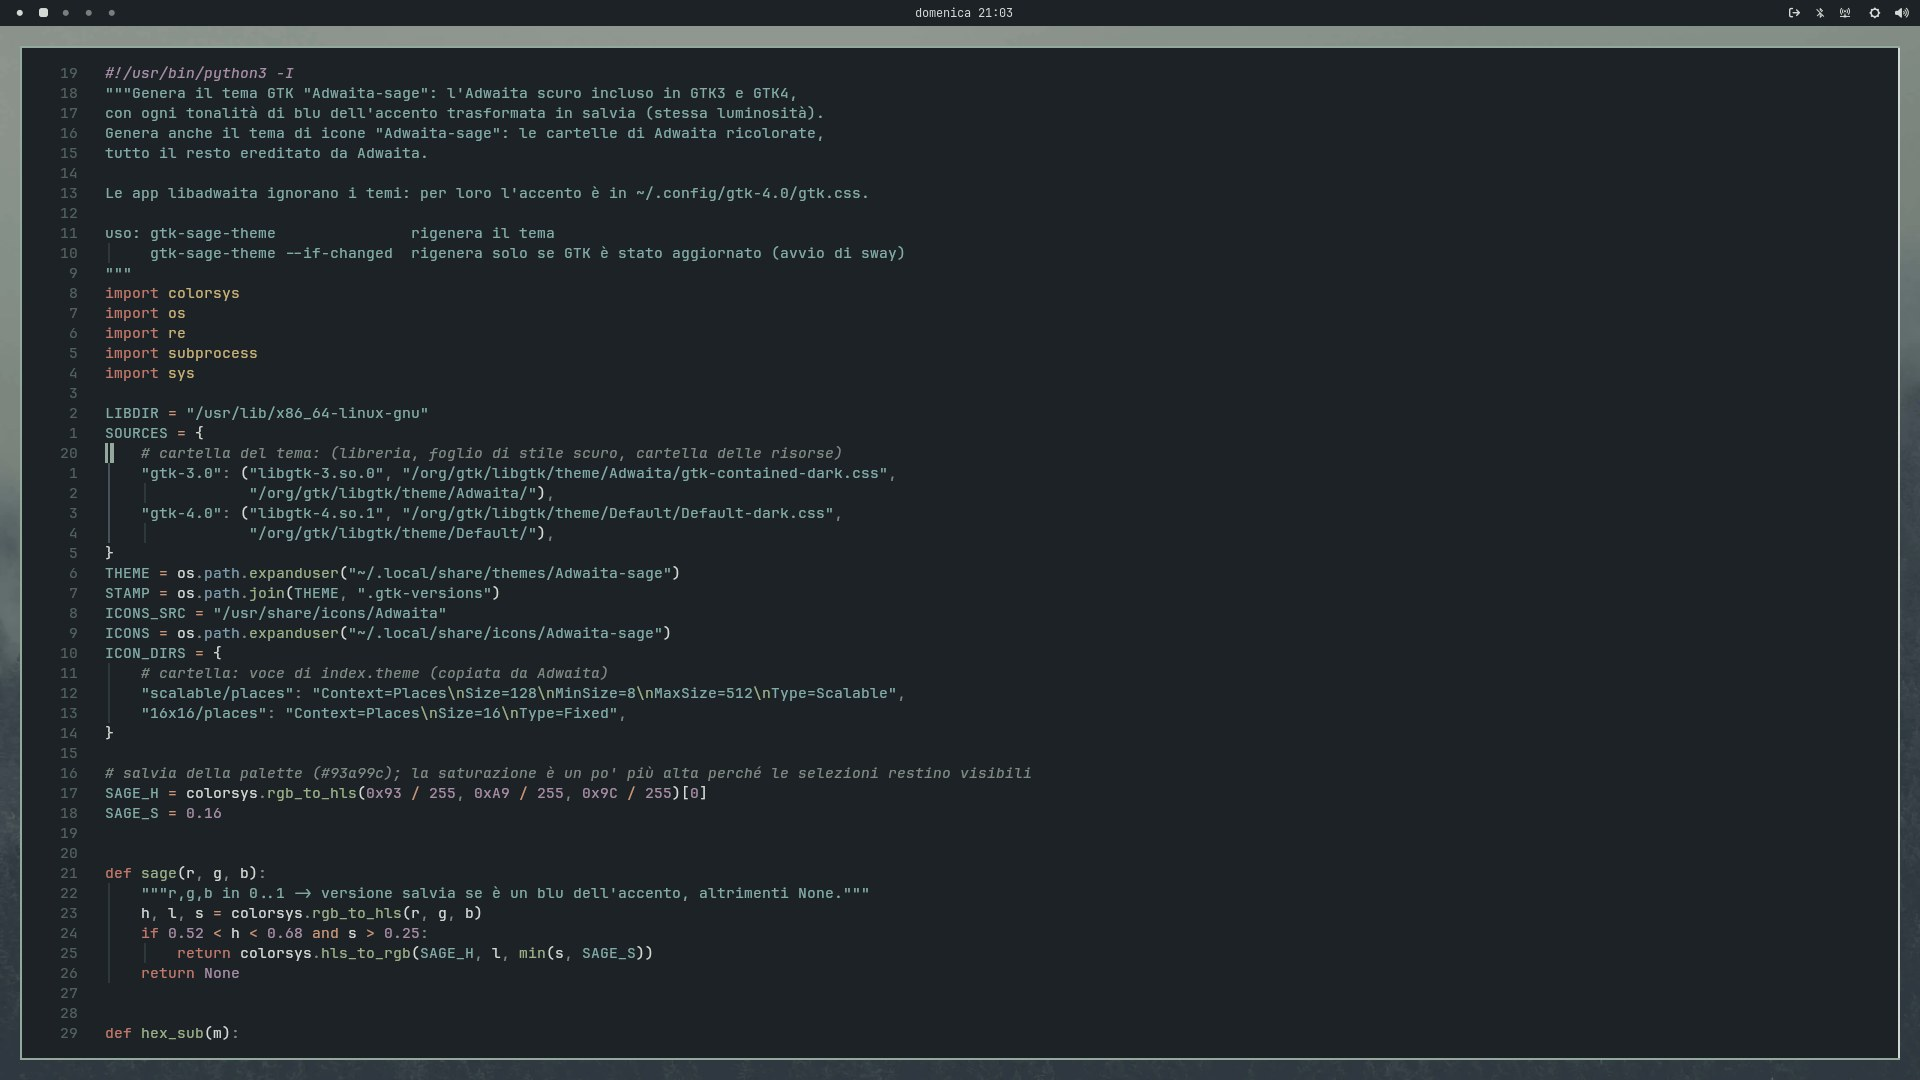
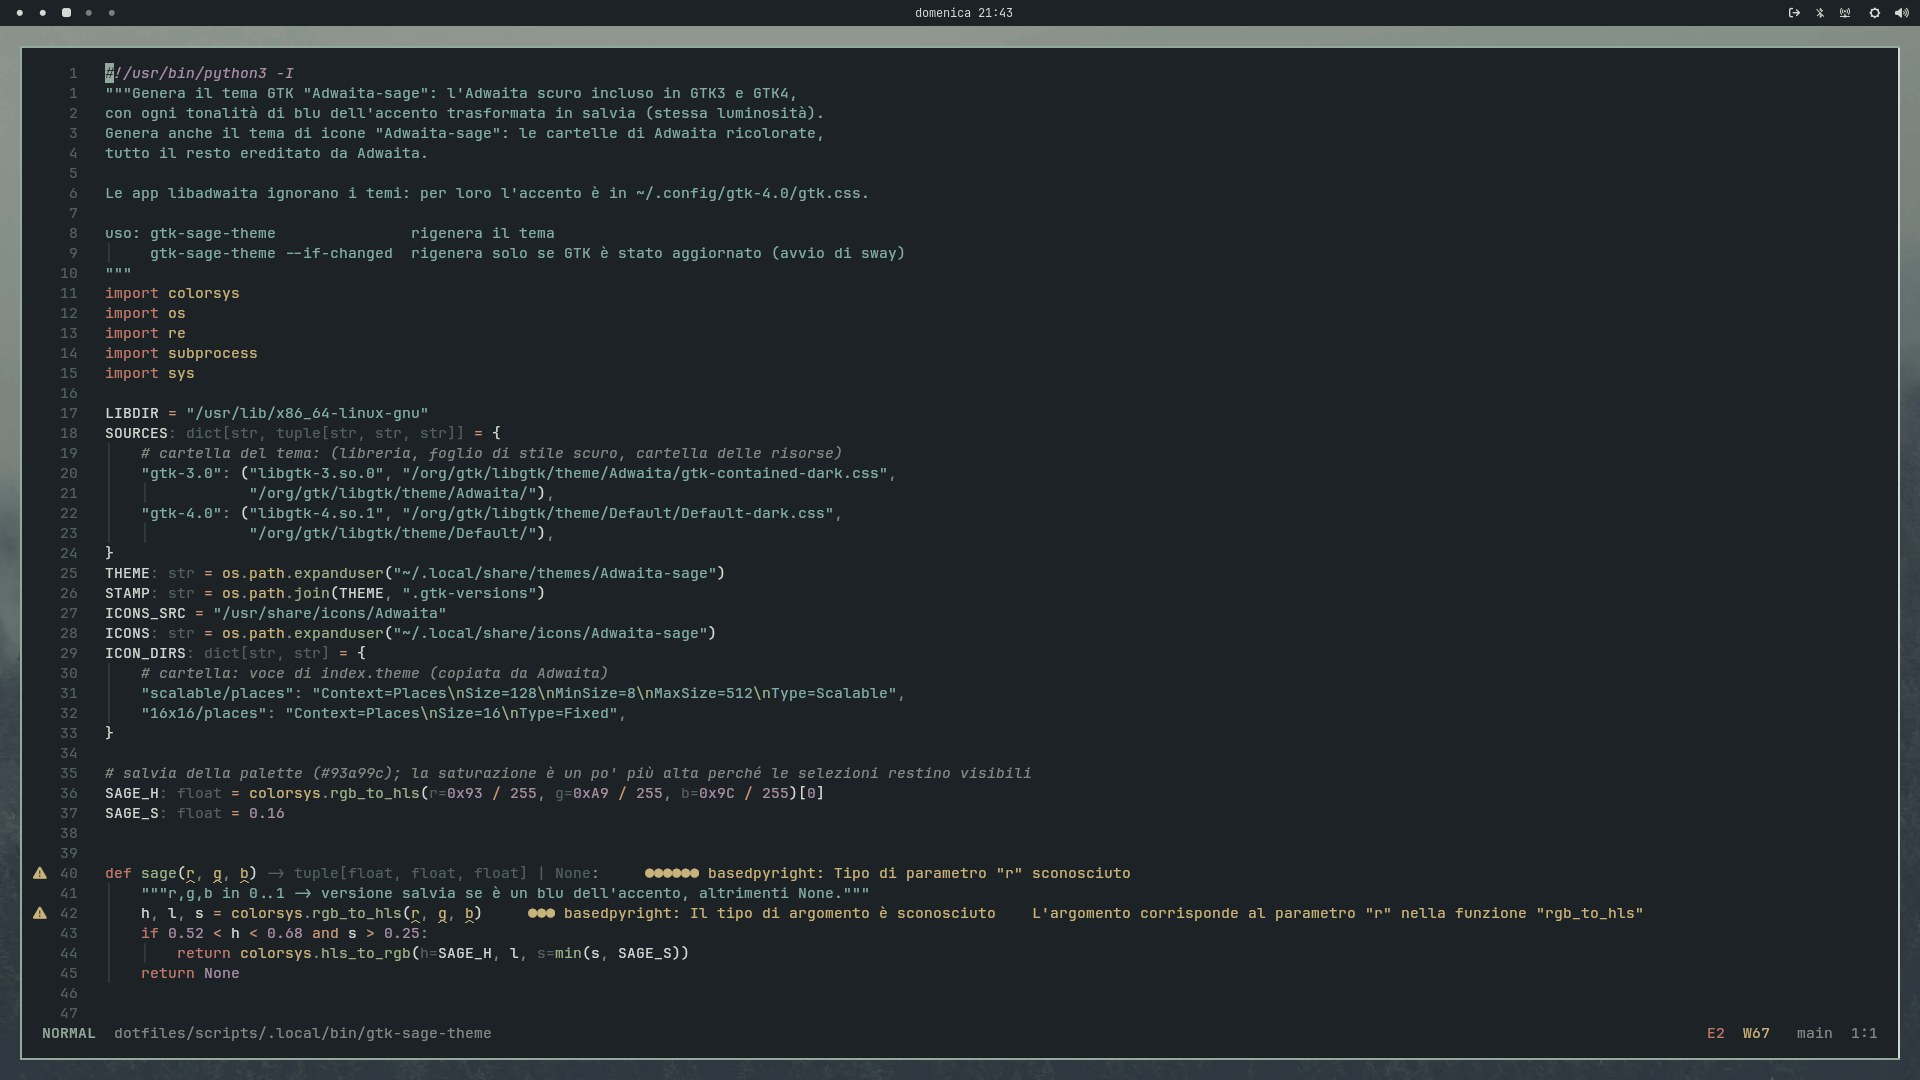
README: new nvim screenshot, missing shortcuts, up-to-date nvim notes

diff --git a/README.md b/README.md
@@ -16,7 +16,7 @@ Everforest theme.
 | | |
 |---|---|
 | ![Neovim](screenshots/nvim.jpg) | ![Firefox with the Misty Forest theme](screenshots/firefox.jpg) |
-| Neovim (LazyVim) with the recoloured Everforest theme | Firefox with the Misty Forest theme |
+| Neovim (LazyVim): recoloured Everforest theme and minimal statusline | Firefox with the Misty Forest theme |
 
 ## Components
 
@@ -90,10 +90,14 @@ To add a package: create `name/.config/name/...`, move the file there and run
 | `$mod+1…0` | switch workspace |
 | `$mod+r` | resize mode |
 | Volume knob | volume |
+| Mute key | mute |
 | `Ctrl` + volume knob | monitor brightness |
 | `$mod+Shift+u/d` | monitor brightness |
 | `$mod+Ctrl+u/d` | monitor contrast |
-| `Print` / `Shift+Print` | full screenshot / area screenshot to clipboard |
+| `$mod+Ctrl+m` | turn the monitor off / on |
+| Media keys | play/pause, next, previous (`playerctl`) |
+| `Print` | full screenshot, saved to `~/Pictures` (the XDG pictures folder) |
+| `Shift+Print` | area screenshot, copied to the clipboard |
 | `$mod+Shift+p` | suspend |
 | `$mod+Shift+e` | log out |
 
@@ -110,9 +114,11 @@ To add a package: create `name/.config/name/...`, move the file there and run
 - **Firefox theme**: to change it, edit `firefox/misty-forest/manifest.json`, bump `version` and
   upload the folder as a zip to [addons.mozilla.org](https://addons.mozilla.org/developers/) as an
   unlisted add-on to get a new signed `.xpi`. With Firefox Sync the active theme is synced too.
-- **Neovim**: plugins and the Mason tools (LSP servers, formatters, `tree-sitter`) are installed on the
-  first start of `nvim`. The config was imported from
-  [alexmarchi28/nvim](https://github.com/alexmarchi28/nvim) with its history.
+- **Neovim**: plugins and the Mason tools (LSP servers, formatters, debuggers, `tree-sitter`) are
+  installed on the first start of `nvim`; `lazy-lock.json` pins the plugin versions, so commit it
+  after `:Lazy update`. The Go debugger (`delve`) comes from apt. `<leader>sk` searches all the
+  shortcuts. The config was imported from [alexmarchi28/nvim](https://github.com/alexmarchi28/nvim)
+  with its history.
 - **Settings outside of files**: dark style, GTK theme and icon theme are `gsettings` values, applied
   by `setup.sh`.
 

diff --git a/nvim/.config/nvim/README.md b/nvim/.config/nvim/README.md
@@ -11,18 +11,32 @@ make the interface less intrusive and more focused on editing.
 
 - Uses [Everforest](https://github.com/neanias/everforest-nvim) recoloured with the system
   palette (grey-green background, sage accent), the same colours as kitty, sway and Waybar.
-- Applies a transparent background to the main editor and plugin UI elements.
+- Applies a transparent background to the main editor and plugin UI elements; the completion
+  menu keeps a solid background so it stays readable over the code.
 - Reduces the visual intensity of indentation guides.
-- Disables the statusline, including `lualine`.
-- Enables soft line wrapping with `wrap` and `linebreak`.
+- Replaces `lualine` with a minimal statusline (`lua/config/statusline.lua`): mode, file,
+  modified flag, error/warning counts, git branch and cursor position, on a transparent background.
+- Soft line wrapping (`wrap` and `linebreak`) only in text files (markdown, text, git commits,
+  LaTeX, typst, mail), not in code.
 - Disables the highlighted cursor line.
-- Disables spellcheck by default.
+- Disables spellcheck everywhere, text files included.
 - Disables the initial LazyVim dashboard.
 - Prevents the LSP completion menu from opening automatically.
 - Disables completion ghost text and inline previews.
 - Keeps completion available manually with `<C-Space>`.
-- Automatically installs selected Mason tools: `black`, `clangd`,
-  `basedpyright`, and `gopls`.
+
+## LazyVim extras
+
+Enabled in `lazyvim.json`:
+
+- `lang.python`: basedpyright (instead of pyright) and ruff; `black` formats Python files.
+- `lang.go`: gopls, goimports, gofumpt, golangci-lint.
+- `lang.clangd`: clangd and clangd_extensions for C/C++.
+- `dap.core`: debugger (nvim-dap with its UI): delve for Go (installed with apt, not Mason),
+  debugpy for Python, codelldb for C/C++.
+
+Mason installs the tools on the first start. `lazy-lock.json` is committed, so every machine gets
+the same plugin versions.
 
 ## LazyVim
 
